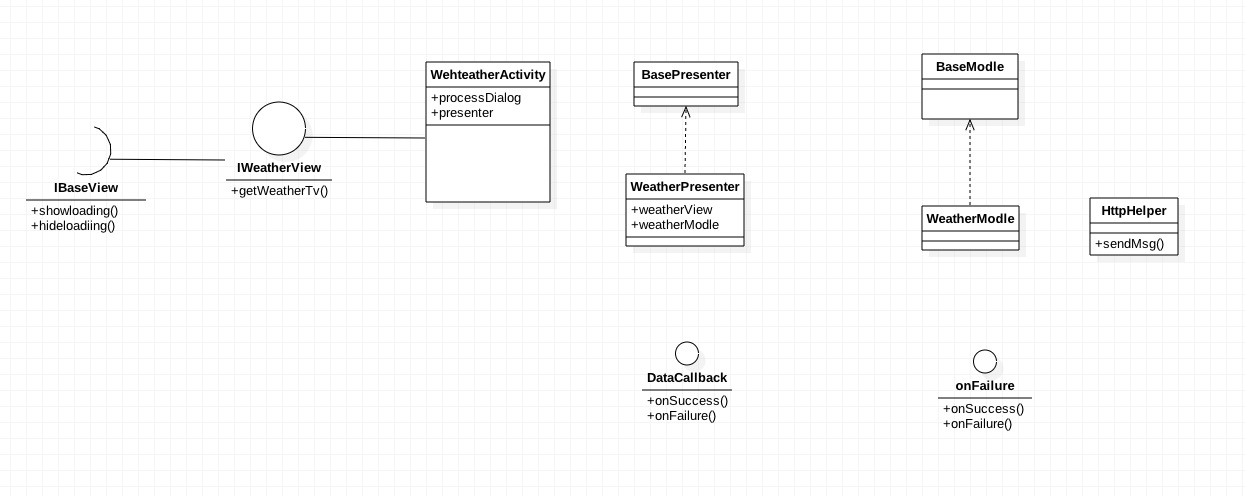
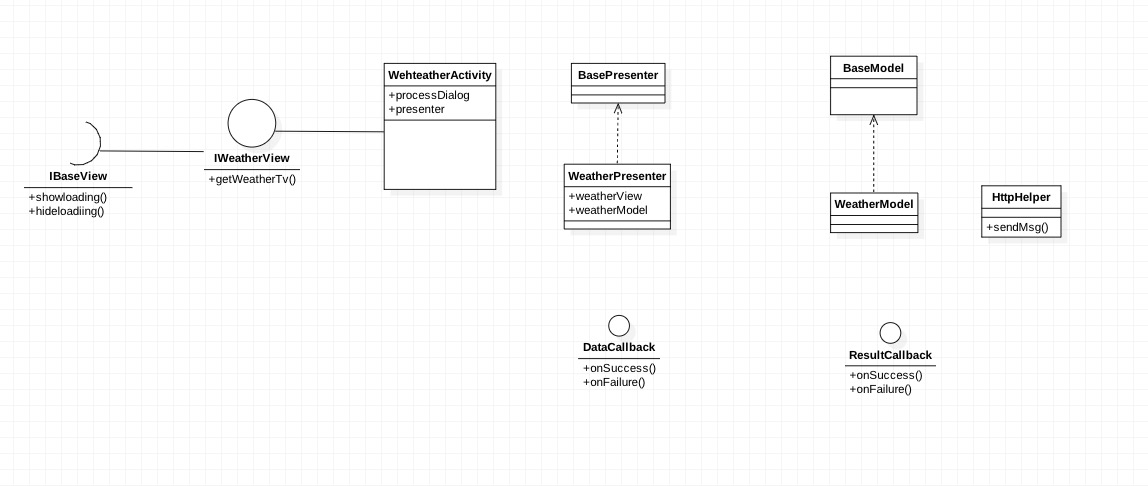
update readme

diff --git a/README.md b/README.md
@@ -1,16 +1,53 @@
 # mvp
 使用mvp深度解耦
 
-## 什么是MVP
+### MVP的架构图
 
-##### Model-view-presenter，简称MVP，是电脑软件设计工程中一种对针对MVC模式，再审议后所延伸提出的一种软件设计模式。MVP与MVC有着一个重大的区别：在MVP中View并不直接使用Model，它们之间的通信是通过Presenter (MVC中的Controller)来进行的，所有的交互都发生在Presenter内部，而在MVC中View会直接从Model中读取数据而不是通过 Controller。
+   ![mvp](/Users/jiangminglu/Desktop/mvp.jpg)
 
-## 为什么要使用MVP
-##### 在MVP里，Presenter完全把Model和View进行了分离，主要的程序逻辑在Presenter里实现。而且，Presenter与具体的View是没有直接关联的，而是通过定义好的接口进行交互，从而使得在变更View时候可以保持Presenter的不变，即重用！ 不仅如此，我们还可以编写测试用的View，模拟用户的各种操作，从而实现对Presenter的测试--而不需要使用自动化的测试工具。 我们甚至可以在Model和View都没有完成时候，就可以通过编写Mock Object（即实现了Model和View的接口，但没有具体的内容的）来测试Presenter的逻辑。 
+如图所示 我们可以看到 `View` 和 `Model` 没有任何联系，在我们传统的 `mvc`设计模式中，`view` 经常会去操作`Model`.
+
+而在`MVP`里，`Presenter`完全把`Model`和`View`进行了分离，主要的程序逻辑在`Presenter`里实现。而且，`Presenter`与具体的`View`是没有直接关联的，而是通过定义好的接口进行交互，从而使得在变更`View`时候可以保持`Presenter`的不变，即重用！ 不仅如此，我们还可以编写测试用的`View`，模拟用户的各种操作，从而实现对`Presenter`的测试--而不需要使用自动化的测试工具。 我们甚至可以在`Model`和`View`都没有完成时候，就可以通过编写`Mock Object`（即实现了`Model`和`View`的接口，但没有具体的内容的）来测试`Presenter`的逻辑。
+
+### 在本项目中MVP中所使用的类图如下:
+
+  ![diagram](/Users/jiangminglu/Desktop/diagram.png)
+
+整个类图分为3块区域
+
+. 1 左边 `IBaseView`,`IWeatherView`,`WeatherActivity` 划分为`View` 层。
+
+     `IBaseView` 是为了定义一些公用的操作方法，比如 `showLoading`这样的方法
+
+    `IWeatherView` 实现 `IBaseView` 并定义了天气界面要操作的方法。
+
+   `WeatherActivity`实现了`IWeatherView` 
+
+. 2 中间 `BasePresenter`,`WeatherPresenter`,`DataCallback` 属于 `Presenter` 层
+
+    `BasePresenter`是所有 presenter 的父类。
+
+    `WeatherPresenter`定义并实现了对应View 要具体操作的事项。
+
+    `DataCallback`是一个泛型接口，定义要获取的数据类型，在presenter 和 Modle 两层之间解耦。
+
+. 3 最右边 `BaseModel`,`WeatherModle`,`ResultCallback` 属于 `model` 层
+
+      `BaseModel`是所有 Model 的父类。
+
+    `WeatehrModel`主要是封装view传递过来的参数并向业务服务器发送request，当然还要负责返回数据的解析。
+
+    `HttpHelper` 主要是封装了网络请求。
+
+    `ResultCallback`是在modle 层和 http层进行解耦。
 
 
 
-### 接下来我们看看MVP的架构图
+在整个设计中，用了两个 interface 来解耦。`ResultCallback`让`httpHelper` 独立出来，让它完全作为一个工具类，只负责发送请求，我们随时可以替换这一层的实现而不会有别的影响。`Datacallback` 让`Model` 变成正在的数据持久层，入参的封装，返回数据的封装，都可以放在这一层，在`Presenter`直接拿到界面想要的 javabean。
 
- ![mvp](/Users/jiangminglu/Desktop/mvp.jpg)
+#### 具体的请求流程如下
+
+ ![时序图](/Users/jiangminglu/Desktop/时序图.png)
+
+
 
